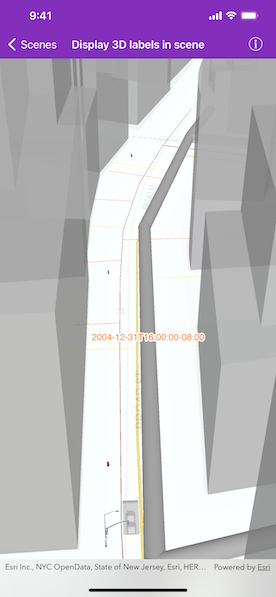
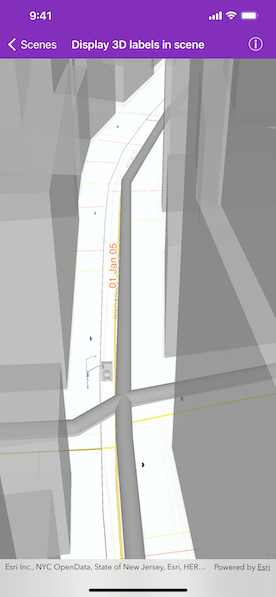
Updated screenshot and readme

diff --git a/arcgis-ios-sdk-samples/Scenes/Display 3D labels in scene/README.md b/arcgis-ios-sdk-samples/Scenes/Display 3D labels in scene/README.md
@@ -19,11 +19,8 @@ Pan and zoom to explore the scene. Notice the labels on the 3D gas network.
 3. After loading is complete, obtain the `AGSFeatureLayer` from the scene's `operationalLayers`.
 4. Set the feature layer's `labelsEnabled` property to `true`.
 5. Create an `AGSTextSymbol` to use for displaying the label text.
-6. Create a JSON string for the label definition.
-    * Set the "labelExpressionInfo.expression" key to express what the text the label should display. You can use fields of the feature by using `$feature.NAME` in the expression.
-    * To use the text symbol, set the "symbol" key to the symbol's JSON representation using `AGSTextSymbol.toJSON()`.
-7. Create a label definition from the JSON using `AGSJSONSerializable.fromJSON(_:)`.
-8. Add the definition to the feature layer's `labelDefinitions` array.
+6. Create an `AGSLabelDefinition` using an  `AGSArcadeLabelExpression`.
+7. Add the definition to the feature layer's `labelDefinitions` array.
 
 ## Relevant API
 
